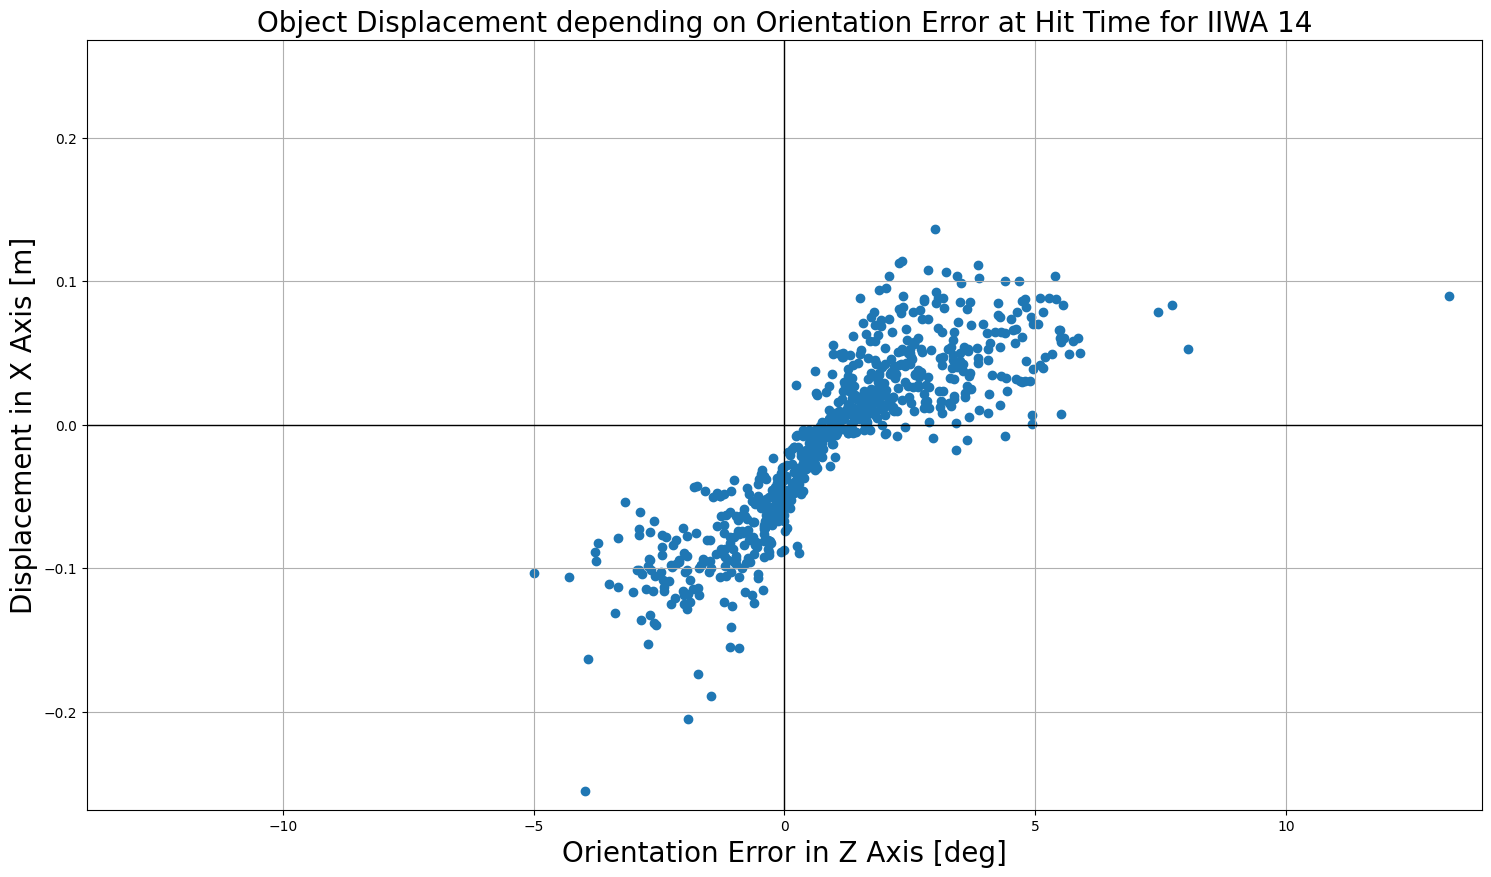
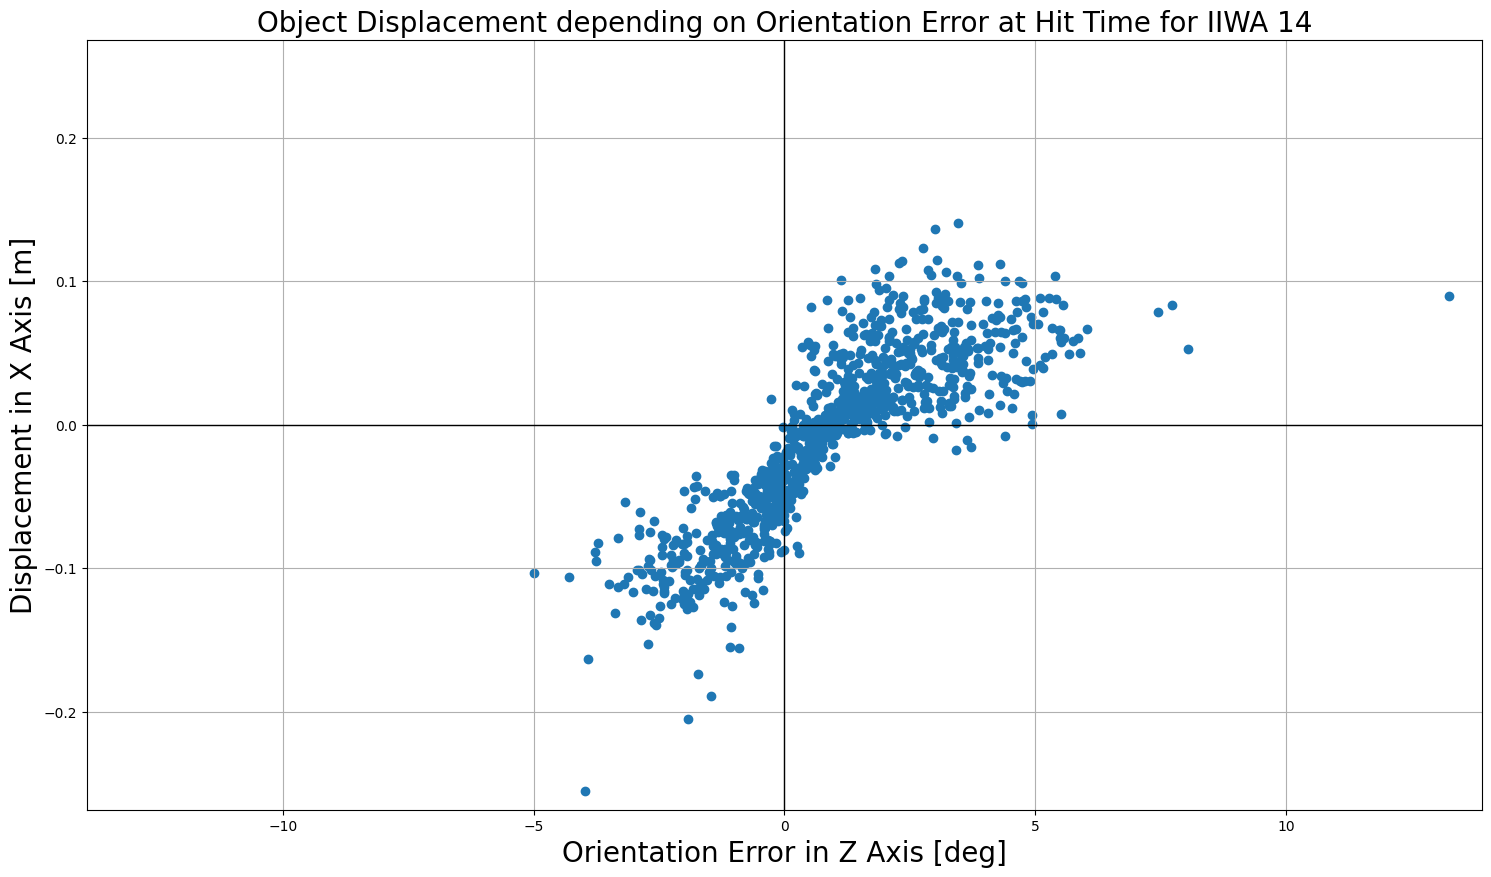
added figures

diff --git a/python/analyse_data.py b/python/analyse_data.py
@@ -1146,7 +1146,7 @@ def get_precise_hit_position(df):
     ax.legend()
     ax.grid(True)
 
-    plt.show()
+    # plt.show()
 
 
 def save_all_figures(dataset): 
@@ -1176,7 +1176,7 @@ if __name__== "__main__" :
     
     ### Datafile to use
     # csv_fn ="100_hits-object_1-config_1-fixed_start-random_flux-IIWA_7-reduced_inertia" #"data_test_april"#  #"data_consistent_march"
-    csv_fn = "D1_clean"#"D1_clean" #"data_test_april"#  #"data_consistent_march"
+    csv_fn = "D1-edge"#"D1_clean" #"data_test_april"#  #"data_consistent_march"
 
 
     ## Reading and cleanign data 
@@ -1186,16 +1186,16 @@ if __name__== "__main__" :
     
     clean_df = clean_data(df, save_clean_df=True)
 
-    object_number = get_object_based_on_dataset(csv_fn)
+    # object_number = get_object_based_on_dataset(csv_fn)
 
-    ### Plot functions
-    # plot_distance_vs_flux(clean_df, colors="iiwa", with_linear_regression=True)
-    # flux_hashtable(clean_df)
+    # ### Plot functions
+    plot_distance_vs_flux(clean_df, colors="iiwa", with_linear_regression=True)
+    flux_hashtable(clean_df)
     # plot_object_start_end(clean_df, dataset_path="varying_flux_datasets/D4/", relative=True)
     # plot_orientation_vs_displacement(clean_df, orientation='error',sanity_check=False, only_7=True,  object_number=object_number)
     # plot_orientation_vs_flux(clean_df, sanity_check=True, object_number=object_number)
-    # plot_displacement_vs_flux(clean_df) 
-    get_precise_hit_position(clean_df)
+    plot_displacement_vs_flux(clean_df) 
+    # get_precise_hit_position(clean_df)
 
     # plot_hit_position(clean_df, plot="on object" , use_mplcursors=False)
     # plot_orientation_vs_distance(clean_df, axis="z")
@@ -1203,7 +1203,7 @@ if __name__== "__main__" :
     # plot_object_trajectory(clean_df, use_mplcursors=True, selection="all")
     
 
-    # save_all_figures(dataset=csv_fn)
+    save_all_figures(dataset=csv_fn)
     plt.show()
 
 

diff --git a/python/process_data.py b/python/process_data.py
@@ -70,10 +70,10 @@ def get_orientation_error_in_correct_base(q_robot, q_object, iiwa_number):
     r_r_r = Rotation.from_quat(q_robot).as_matrix() # incorrect base
 
     if iiwa_number == 7:
-        r_0 = Rotation.from_quat([0.707, 0.707, 0.0, 0.0]).as_matrix() # 90 deg in x 
+        r_0 = Rotation.from_quat([0.707, 0.0, 0.0, 0.707]).as_matrix() # 90 deg in x 
         r_r_0 = r_r_r @ r_0
     if iiwa_number == 14:
-        r_0 = Rotation.from_quat([0.5, -0.5, 0.5, -0.5]).as_matrix() # 90 deg in Z, then 90 deg in X
+        r_0 = Rotation.from_quat([-0.5, 0.5, -0.5, 0.5]).as_matrix() # -90 deg in Z, then -90 deg in X
         r_r_0 = r_r_r @ r_0
     
     r_o_to_r = r_o_0.T @ r_r_0
@@ -81,6 +81,22 @@ def get_orientation_error_in_correct_base(q_robot, q_object, iiwa_number):
     euler_angles = Rotation.from_matrix(r_o_to_r).as_euler('XYZ', degrees=True)
     
     return euler_angles
+
+def get_corrected_quat_object_2(q_object):
+    # overcoming offset from object 2 (didn't set axis properly in motive)
+
+    # Define the rotation angles
+    angles = [-90, 0, 90]  # -90 degrees around x, 0 degrees around y, 90 degrees around z
+    rotation = Rotation.from_euler('XYZ', angles, degrees=True) ## this hsould be dtermnied from the base orienation 
+
+    rot = rotation * Rotation.from_quat(q_object)
+
+    rot_euler = rot.as_euler('xyz')
+    rot_euler_corrected = [rot_euler[0], -rot_euler[2], rot_euler[1]]
+
+    rot_final = Rotation.from_euler('xyz', rot_euler_corrected)
+
+    return rot_final.as_quat()
 
 def get_robot_data_at_hit(csv_file, hit_time, show_print=False, get_max_values=False):
     ### Returns robot data info at hit time : Flux, inertia, EFF pose
